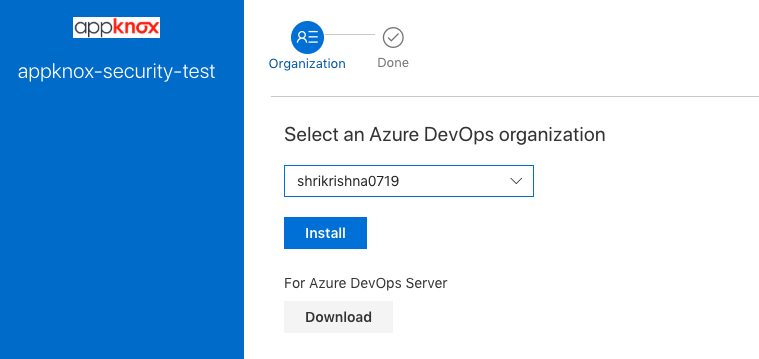
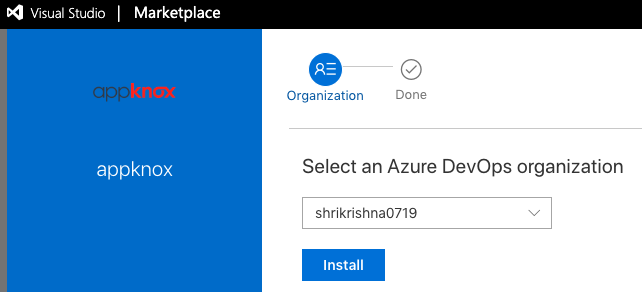
Add new screenshots

diff --git a/overview.md b/overview.md
@@ -5,7 +5,7 @@ This extension adds the ability to perform automated app security testing for An
 Following are parameters needed for the task:
 
 |param      | required? | description |
-| ------------- |:-------------:| -----:|
+| ------------- |:-------------:| ----- |
 | `filePath` | true | Path to APK/IPA file |
 |`accessToken`| true | Appknox API Access Token |
 |`riskThreshold`| false | Risk level to fail the build. Avialable options are: `low`, `medium`, `high`, `critical` |
@@ -65,7 +65,7 @@ steps:
     testResultsFiles: '**/TEST-*.xml'
     tasks: 'assembleDebug'
 
-- task: appknox-security-test@0
+- task: appknox@0
   inputs:
     filepath: './app/build/outputs/apk/app-debug.apk'
     accessToken: '$(access_token)'
